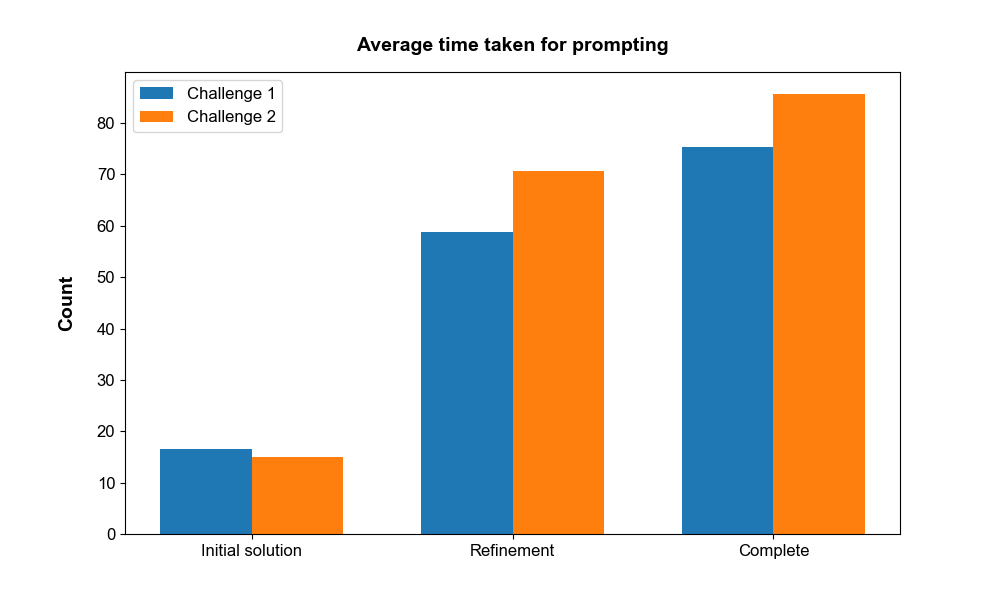
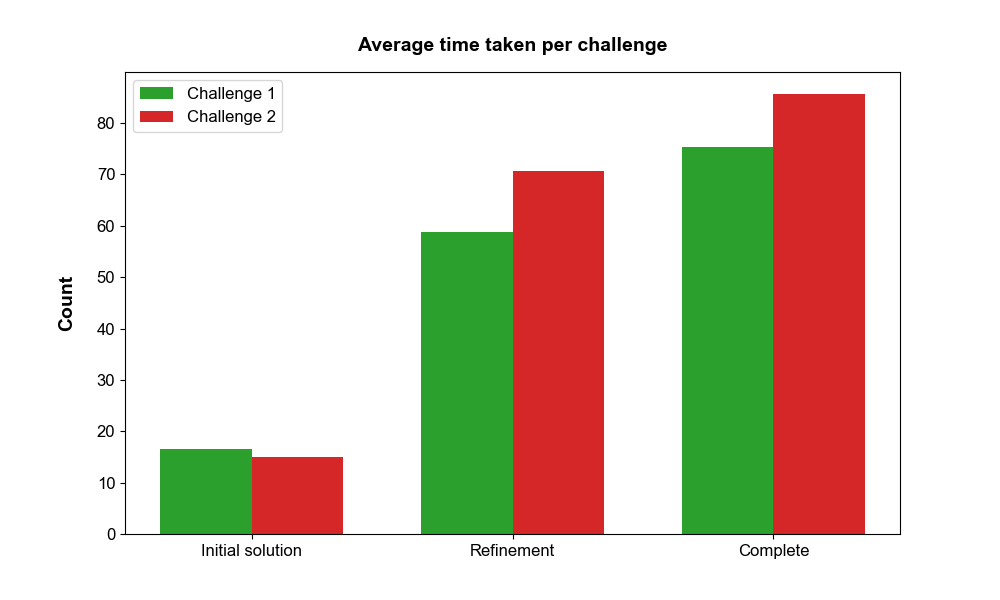
added statistic extraction

diff --git a/data_extractor/vis_questions.py b/data_extractor/vis_questions.py
@@ -1,26 +1,50 @@
 import numpy as np
+import pandas as pd
+import plot_likert
 
 def plot_questions(stats, plt):
-    ## NEEDS
+    # ## NEEDS
+    dict_simple = {}
+    dict_complex = {}
     for key in stats["distribution"]["complex"].keys():
         data_complex = stats["distribution"]["complex"][key]
         data_simple = stats["distribution"]["simple"][key]
-        labels = list(data_complex.keys())  # Extract labels (Agree, Disagree, Neutral)
-        x = np.arange(len(labels))  # the label locations
-        width = 0.35  # the width of the bars
-        # Creating the bar chart
-        plt.figure(figsize=(10, 6))
-        plt.bar(x - width / 2, data_simple.values(), width, label="Simple prompting")
-        plt.bar(x + width / 2, data_complex.values(), width, label="Complex prompting")
-        # Adding titles and labels
-        plt.title(stats["mapping"]["taskSpecific"][key], wrap=True)
-        # plt.xlabel('User response')
-        plt.ylabel('Count')
-        plt.xticks(ticks=x, labels=labels)
-        plt.legend()
-
-        # Display the plot
-        plt.ylim(top=11)
-        plt.yticks(np.arange(12))
-        plt.savefig('out/questions/{}'.format(key))
-        plt.show()
+        if "Yes" in data_complex.keys() or "Yes" in data_simple.keys():
+            continue
+        dict_simple[stats["mapping"]["taskSpecific"][key]] = {value: key for key, value in data_simple.items()}
+        dict_complex[stats["mapping"]["taskSpecific"][key]] = {value: key for key, value in data_complex.items()}
+        # labels = list(data_complex.keys())  # Extract labels (Agree, Disagree, Neutral)
+        # x = np.arange(len(labels))  # the label locations
+        # width = 0.35  # the width of the bars
+        # # Creating the bar chart
+        # plt.figure(figsize=(10, 6))
+        # plt.bar(x - width / 2, data_simple.values(), width, label="Simple prompting")
+        # plt.bar(x + width / 2, data_complex.values(), width, label="Complex prompting")
+        # # Adding titles and labels
+        # plt.title(stats["mapping"]["taskSpecific"][key], wrap=True)
+        # # plt.xlabel('User response')
+        # plt.ylabel('Count')
+        # plt.xticks(ticks=x, labels=labels)
+        # plt.legend()
+        #
+        # # Display the plot
+        # plt.ylim(top=11)
+        # plt.yticks(np.arange(12))
+        # plt.savefig('out/questions/{}'.format(key))
+        # plt.show()
+    dict_simple = pd.DataFrame(dict_simple)
+    dict_complex = pd.DataFrame(dict_complex)
+    print(dict)
+    fig, (ax1, ax2) = plt.subplots(nrows=1, ncols=2, figsize=(20, 10))
+    fig.subplots_adjust(left=0.3, right=0.8)
+    plot_likert.plot_likert(dict_simple, ["Strongly disagree", "Disagree", "Neutral", "Agree", "Strongly agree"],ax = ax1,
+                            plot_percentage=True, label_max_width=70, xtick_interval=20,
+                            legend=0)
+    plot_likert.plot_likert(dict_complex, ["Strongly disagree", "Disagree", "Neutral", "Agree", "Strongly agree"],ax = ax2,
+                            plot_percentage=True, label_max_width=70, xtick_interval=20,
+                            legend=0)
+    ax2.set_yticklabels([])
+    handles, labels = ax2.get_legend_handles_labels()
+    fig.legend(handles, labels, bbox_to_anchor=(0.92, .8))
+    plt.savefig('out/questions/{}'.format("main"))
+    plt.show()

diff --git a/data_extractor/vis_timings.py b/data_extractor/vis_timings.py
@@ -70,12 +70,12 @@ def plot_timings(stats, plt):
     # Creating the bar chart
     plt.figure(figsize=(10, 6))
     width = 0.35
-    plt.bar(x - width / 2, task1, width, label="Challenge 1")
-    plt.bar(x + width / 2, task2, width, label="Challenge 2")
+    plt.bar(x - width / 2, task1, width, label="Challenge 1", color="C2")
+    plt.bar(x + width / 2, task2, width, label="Challenge 2", color="C3")
     # Adding titles and labels
     plt.title("Average time taken per challenge")
     plt.ylabel('Count')
-    plt.xticks(ticks=x, labels=labels, color=["C3", "C4"])
+    plt.xticks(ticks=x, labels=labels)
     plt.legend()
     plt.savefig('out/timings/{}'.format("Average time taken per challenge"))
     # Display the plot

diff --git a/data_extractor/vis.py b/data_extractor/vis.py
@@ -21,5 +21,5 @@ stats = json.load(f)
 
 #
 plot_questions(stats, plt)
-plot_timings(stats, plt)
-plot_files(stats, plt)
+# plot_timings(stats, plt)
+# plot_files(stats, plt)
